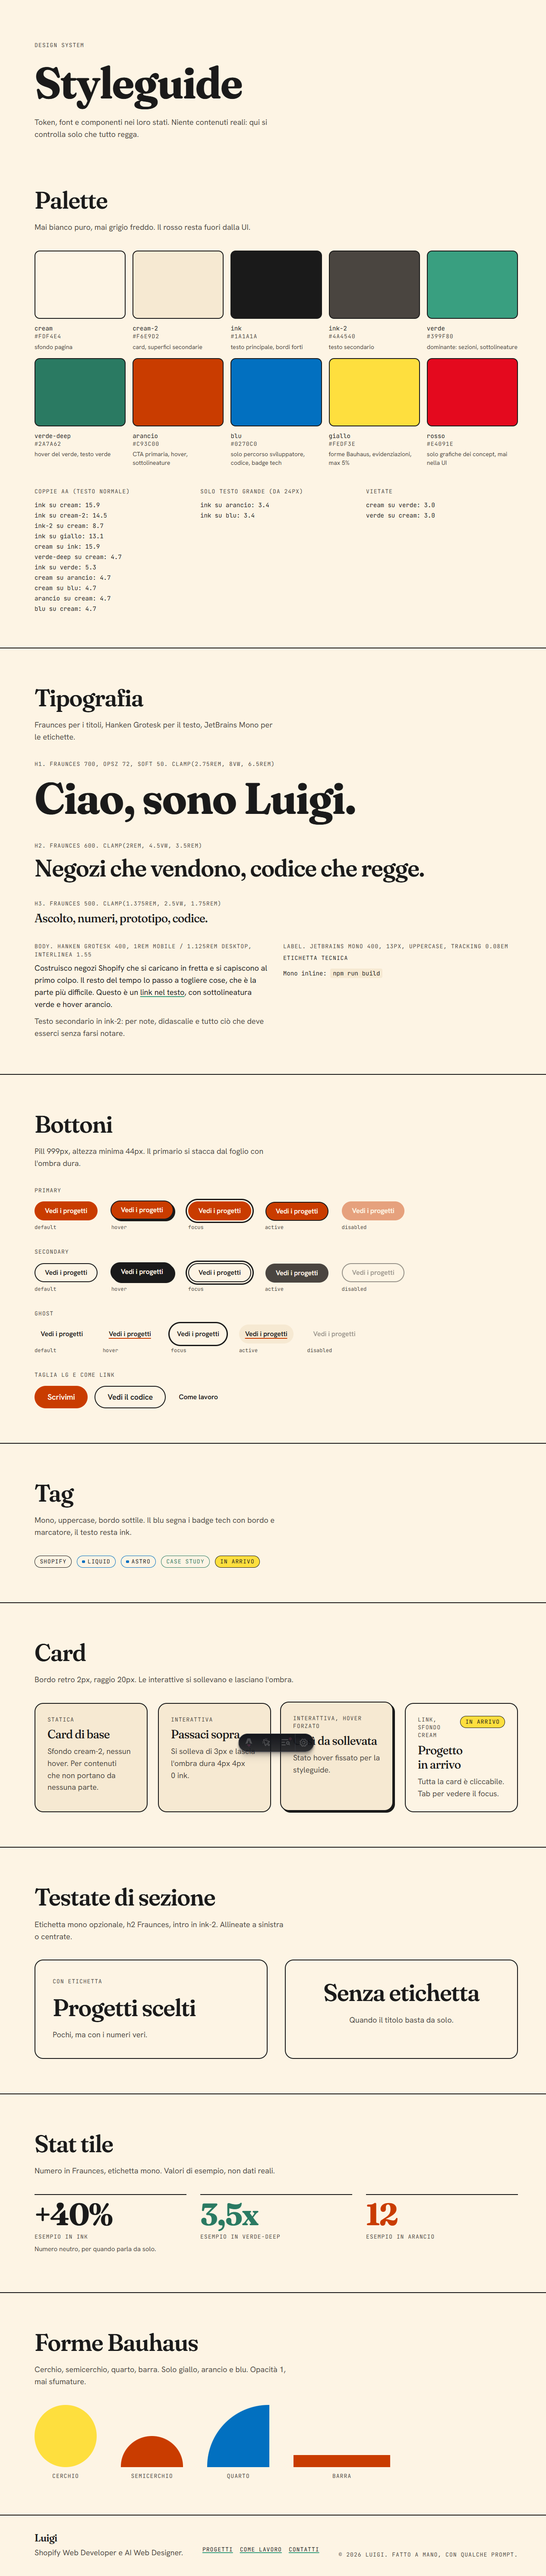
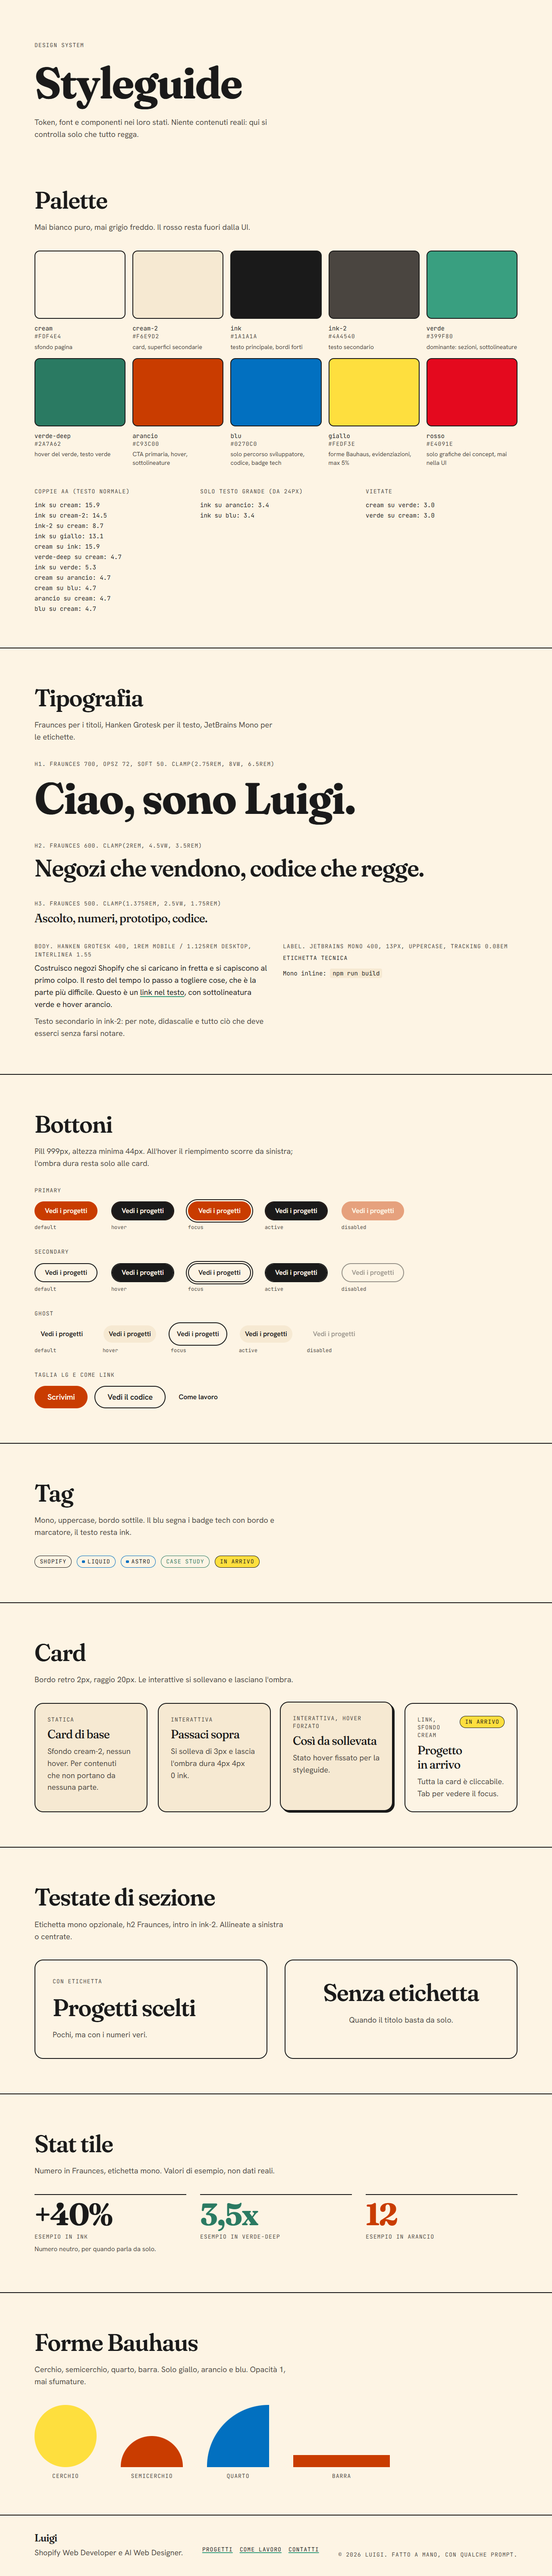
fix(bottoni): hover a riempimento scorrevole, ombra dura solo sulle card
- ::before scaleX(0->1) da sinistra in 0.25s, solo transform
- active immediato senza rimbalzo, focus-visible 2px offset 3px
- hover dentro @media (hover: hover), tap-highlight trasparente sul body
- con prefers-reduced-motion cambio colore istantaneo

diff --git a/src/styles/global.css b/src/styles/global.css
@@ -22,6 +22,7 @@
     line-height: 1.55;
     -webkit-font-smoothing: antialiased;
     text-rendering: optimizeLegibility;
+    -webkit-tap-highlight-color: transparent;
   }
 
   @media (min-width: 768px) {

diff --git a/docs/design-tokens.md b/docs/design-tokens.md
@@ -35,7 +35,7 @@ Scala (mobile → desktop, usa clamp):
 - Griglia: container max 1200px, gutter 20px mobile / 40px desktop.
 - Sezioni: padding-block 80px mobile / 140px desktop.
 - Raggio: card 20px, bottoni 999px (pill), immagini 12px.
-- Bordo "retro": 2px solid var(--color-ink) sulle card principali, ombra dura 4px 4px 0 var(--color-ink) sull'hover.
+- Bordo "retro": 2px solid var(--color-ink) sulle card principali, ombra dura 4px 4px 0 var(--color-ink) sull'hover. L'ombra dura è **solo delle Card**: mai sui bottoni.
 - Forme Bauhaus decorative: cerchio, semicerchio, quarto di cerchio, barra. Solo giallo/arancio/blu, opacità 1, mai sfumature.
 
 ## Motion (GSAP)
@@ -44,6 +44,17 @@ Scala (mobile → desktop, usa clamp):
 - Forme Bauhaus: rotazione lenta continua (60s) + parallax leggero su scroll (max 40px).
 - Hero 3D: rotazione idle 0.15 rad/s, segue il mouse con lerp 0.05; su touch solo idle. Con `prefers-reduced-motion`: immagine statica png al posto del canvas.
 - ScrollTrigger sui case study: pin della colonna sinistra (titolo + tags) mentre scorrono le immagini.
+
+## Bottoni — stati
+- Niente ombra dura e niente traslazioni: forma, dimensioni e posizione non cambiano mai in nessuno stato.
+- **Hover**: riempimento che scorre da sinistra a destra in 0.25s ease power-out (`var(--ease-brand)`). Realizzato con `::before` in `position: absolute; inset: 0`, da `scaleX(0)` con `transform-origin: left` a `scaleX(1)`. Il contenuto del bottone sta sopra con z-index. Si anima solo `transform`, mai `width`.
+  - primary: base arancio con testo cream → riempimento ink con testo cream.
+  - secondary (outline ink): base trasparente con testo ink → riempimento ink con testo cream.
+  - ghost: base trasparente con testo ink → riempimento cream-2 con testo ink.
+- **Active**: `scaleX(1)` immediato, nessun rimbalzo.
+- **Focus**: solo `:focus-visible` (mai `:focus`): outline 2px solid ink, outline-offset 3px, simmetrico su tutto il perimetro.
+- Gli stili hover vivono dentro `@media (hover: hover)`: su touch il riempimento non resta attaccato dopo il tap. Il body ha `-webkit-tap-highlight-color: transparent`.
+- Con `prefers-reduced-motion`: niente scorrimento, cambio colore istantaneo.
 
 ## Componenti da definire (con stati default / hover / focus / active / disabled)
 Button (primary arancio, secondary outline ink, ghost), Tag mono, Card progetto, Switch target (hero), Nav sticky con indicatore verde, Section header (label mono + h2 Fraunces), Before/After slider, Stat tile (numero Fraunces + label mono), Footer con "visitor book" (prima versione: solo link mailto e social).
